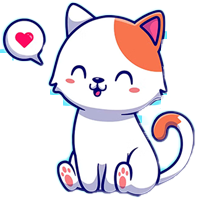
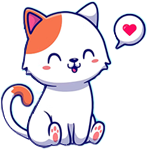
Improved script and positioning

diff --git a/styles/scripts.js b/styles/scripts.js
@@ -47,7 +47,7 @@ function handleIntersection(entries) {
   entries.forEach((entry) => {
     if (entry.isIntersecting) {
       animateElements();
-      observer.unobserve(entry.target); // Stop observing the element after animation
+      // observer.unobserve(entry.target); // Stop observing the element after animation
     }
   });
 }

diff --git a/styles/main.css b/styles/main.css
@@ -718,9 +718,9 @@ main {
 .phone-container::after {
   content: url(../images/why-us.png);
   position: absolute;
-  bottom: 50px;
-  right: -150px;
-  opacity: 0;
+  bottom: -40px;
+  left: -110px;
+  /* opacity: 0; */
   animation: appear 1s linear forwards;
   animation-delay: 9s;
 }
